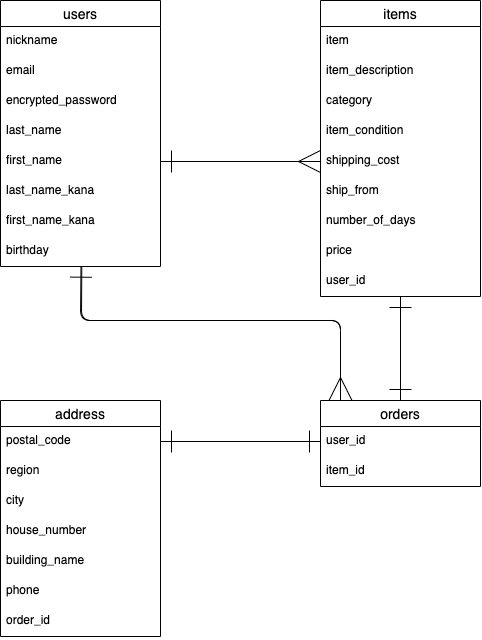
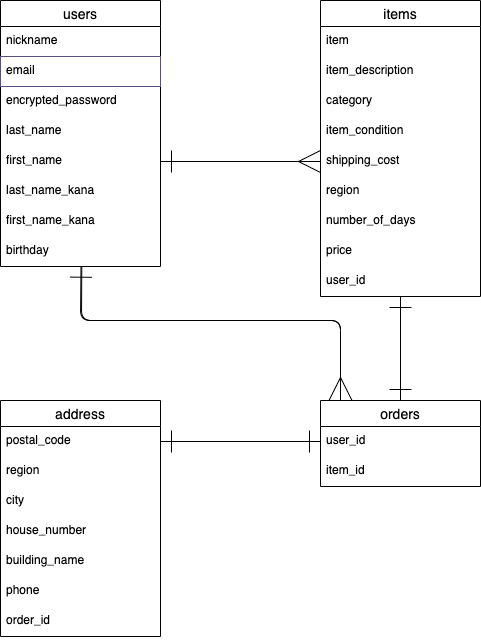
README,ER図の修正

diff --git a/README.md b/README.md
@@ -23,11 +23,11 @@
 | item               | string     | null: false                    |
 | item_description   | text       | null: false                    |
 | category           | string     | null: false                    |
-| item-condition     | string     | null: false                    |
+| item_condition     | string     | null: false                    |
 | shipping_cost      | string     | null: false                    |
-| ship_from          | string     | null: false                    |
+| region             | string     | null: false                    |
 | number_of_days     | string     | null: false                    |
-| price              | string     | null: false                    |
+| price              | integer    | null: false                    |
 | user               | references | null: false, foreign_key: true |
 
 ### Association
